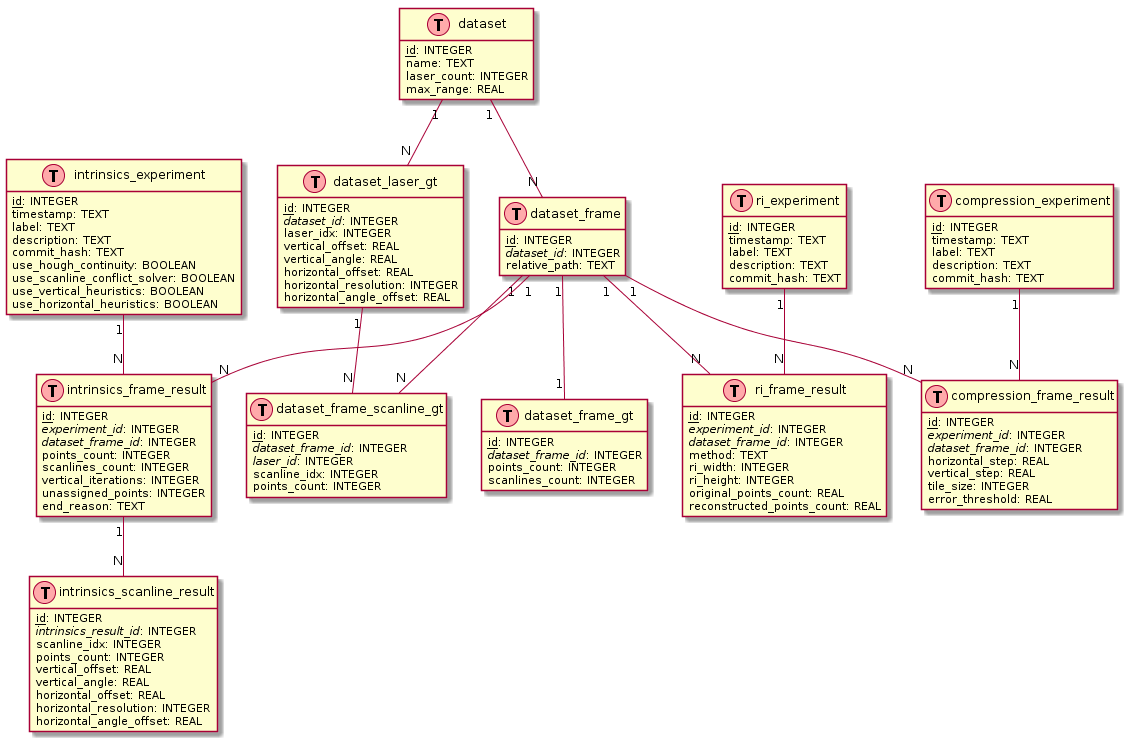
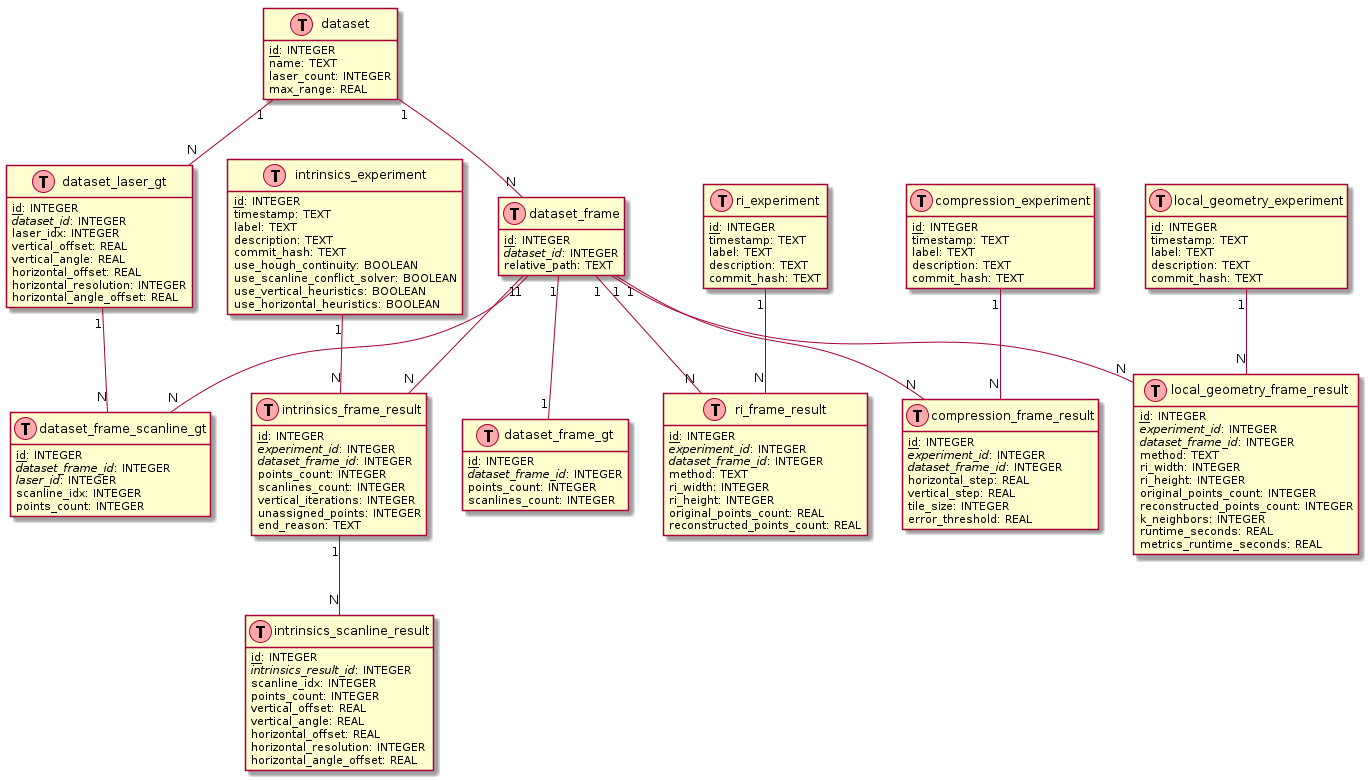
Documentation clean up

diff --git a/scripts/local/local_geometry/README.md b/scripts/local/local_geometry/README.md
@@ -60,47 +60,3 @@ by the range-image reconstruction experiment. The native PBEA resolutions are
 `4000 x 64` for KITTI and `2048 x 128` for DurLAR, followed by multipliers
 `2, 4, 8, 16, 32` in each dimension. PBEA rows are stored as `pbea_native`,
 `pbea_x2`, ..., `pbea_x32`.
-
-## Earlier Native-Only Validation
-
-A one-frame-per-dataset run completed successfully with `alice_lri_env` before
-the runner was switched to always execute the full PBEA sweep.
-Aggregate symmetric point-to-plane metrics:
-
-| Dataset | Method | Mean | P95 |
-| --- | --- | ---: | ---: |
-| DurLAR | ALICE-LRI | 6.674746e-07 | 0.000003 |
-| DurLAR | PBEA native | 1.369338e-02 | 0.040438 |
-| KITTI | ALICE-LRI | 2.045530e-04 | 0.000466 |
-| KITTI | PBEA native | 1.668872e-02 | 0.051642 |
-
-This is a smoke test only, not the final paper result. It confirms that the
-metric and reconstruction paths behave sensibly before running larger local or
-CESGA batches.
-
-## Earlier n=100 Native-Only Subset
-
-The first 100 frames per dataset also completed successfully before the runner
-was switched to always execute the full PBEA sweep:
-
-```bash
-/usr/bin/time -v /home/samuel.soutullo/.miniconda3/envs/alice_lri_env/bin/python \
-  -m scripts.local.local_geometry.run_local_geometry_experiment \
-  --max_frames_per_dataset 100 \
-  --k_neighbors 12 \
-  --output_csv results/local_geometry/local_geometry_metrics_n100.csv \
-  --output_sqlite results/local_geometry/local_geometry_metrics_n100.sqlite
-```
-
-The native-only run produced 400 rows and took 11:16.25 wall-clock seconds with
-maximum RSS 729876 KB. Mean per-frame symmetric point-to-plane metrics:
-
-| Dataset | Method | Mean | RMSE | Median | P95 | Max |
-| --- | --- | ---: | ---: | ---: | ---: | ---: |
-| DurLAR | ALICE-LRI | 7.876325e-07 | 0.000002 | 1.546443e-07 | 0.000003 | 0.000069 |
-| DurLAR | PBEA native | 1.297986e-02 | 0.021774 | 8.606889e-03 | 0.037986 | 3.063795 |
-| KITTI | ALICE-LRI | 2.017872e-04 | 0.000247 | 1.775679e-04 | 0.000465 | 0.000839 |
-| KITTI | PBEA native | 1.578356e-02 | 0.035308 | 9.564307e-03 | 0.048665 | 3.986054 |
-
-For full-dataset/HPC execution, prefer writing results per frame or per batch
-instead of only at the end of the process.

diff --git a/scripts/local/db/README.md b/scripts/local/db/README.md
@@ -7,7 +7,7 @@ This folder contains scripts for creating and populating the experiment database
 The database schema is designed to support:
 1. **Dataset and Frame Management**: References to KITTI and DurLAR datasets and their individual frames.
 2. **Ground Truth Data**: Per-sensor reference intrinsic parameters and per-frame laser-scanline mappings.
-3. **Experiment Results**: Results from intrinsics estimation, range image, and compression experiments.
+3. **Experiment Results**: Results from intrinsics estimation, range image, compression, and local geometry experiments.
 
 ## Entity-Relationship Diagram
 
@@ -49,7 +49,9 @@ This schema is intentionally provided as a separate migration script and is not 
 sqlite3 "$BASE_DB_DIR/initial.sqlite" < scripts/local/db/sql/001_local_geometry_experiment.sql
 ```
 
-If `master.sqlite` already exists before merging local-geometry results, apply the same migration to it before running the merge command:
+Run the command above from the repository root. If `master.sqlite` already
+exists before merging local-geometry results, apply the same migration to it
+before running the merge command:
 
 ```bash
 sqlite3 "$BASE_DB_DIR/master.sqlite" < scripts/local/db/sql/001_local_geometry_experiment.sql

diff --git a/scripts/local/paper/README.md b/scripts/local/paper/README.md
@@ -92,7 +92,7 @@ Each script in the `helper/` subfolder generates specific tables or figures. You
 - **`generate_local_geometry_metrics_table.py`**
   - Computes the local point-to-plane reconstruction metrics from the latest `local_geometry_base` experiment.
   - Compares ALICE-LRI and the PBEA resolution sweep on KITTI and DurLAR.
-  - Includes all method/resolution rows stored in the selected experiment.
+  - Includes all method/resolution rows stored in that experiment.
   - Opens `master.sqlite` in SQLite read-only mode.
   - Output: `local_geometry_metrics.tex`.
 

diff --git a/scripts/slurm/local_geometry/README.md b/scripts/slurm/local_geometry/README.md
@@ -76,5 +76,5 @@ cd ../../merge
 Select option `[5] Local Geometry`, then provide an experiment label and
 description.
 
-When generating the manuscript table, the paper helper includes all
+When generating the paper table, the local paper helper includes all
 method/resolution rows stored in the latest `local_geometry_base` experiment.
